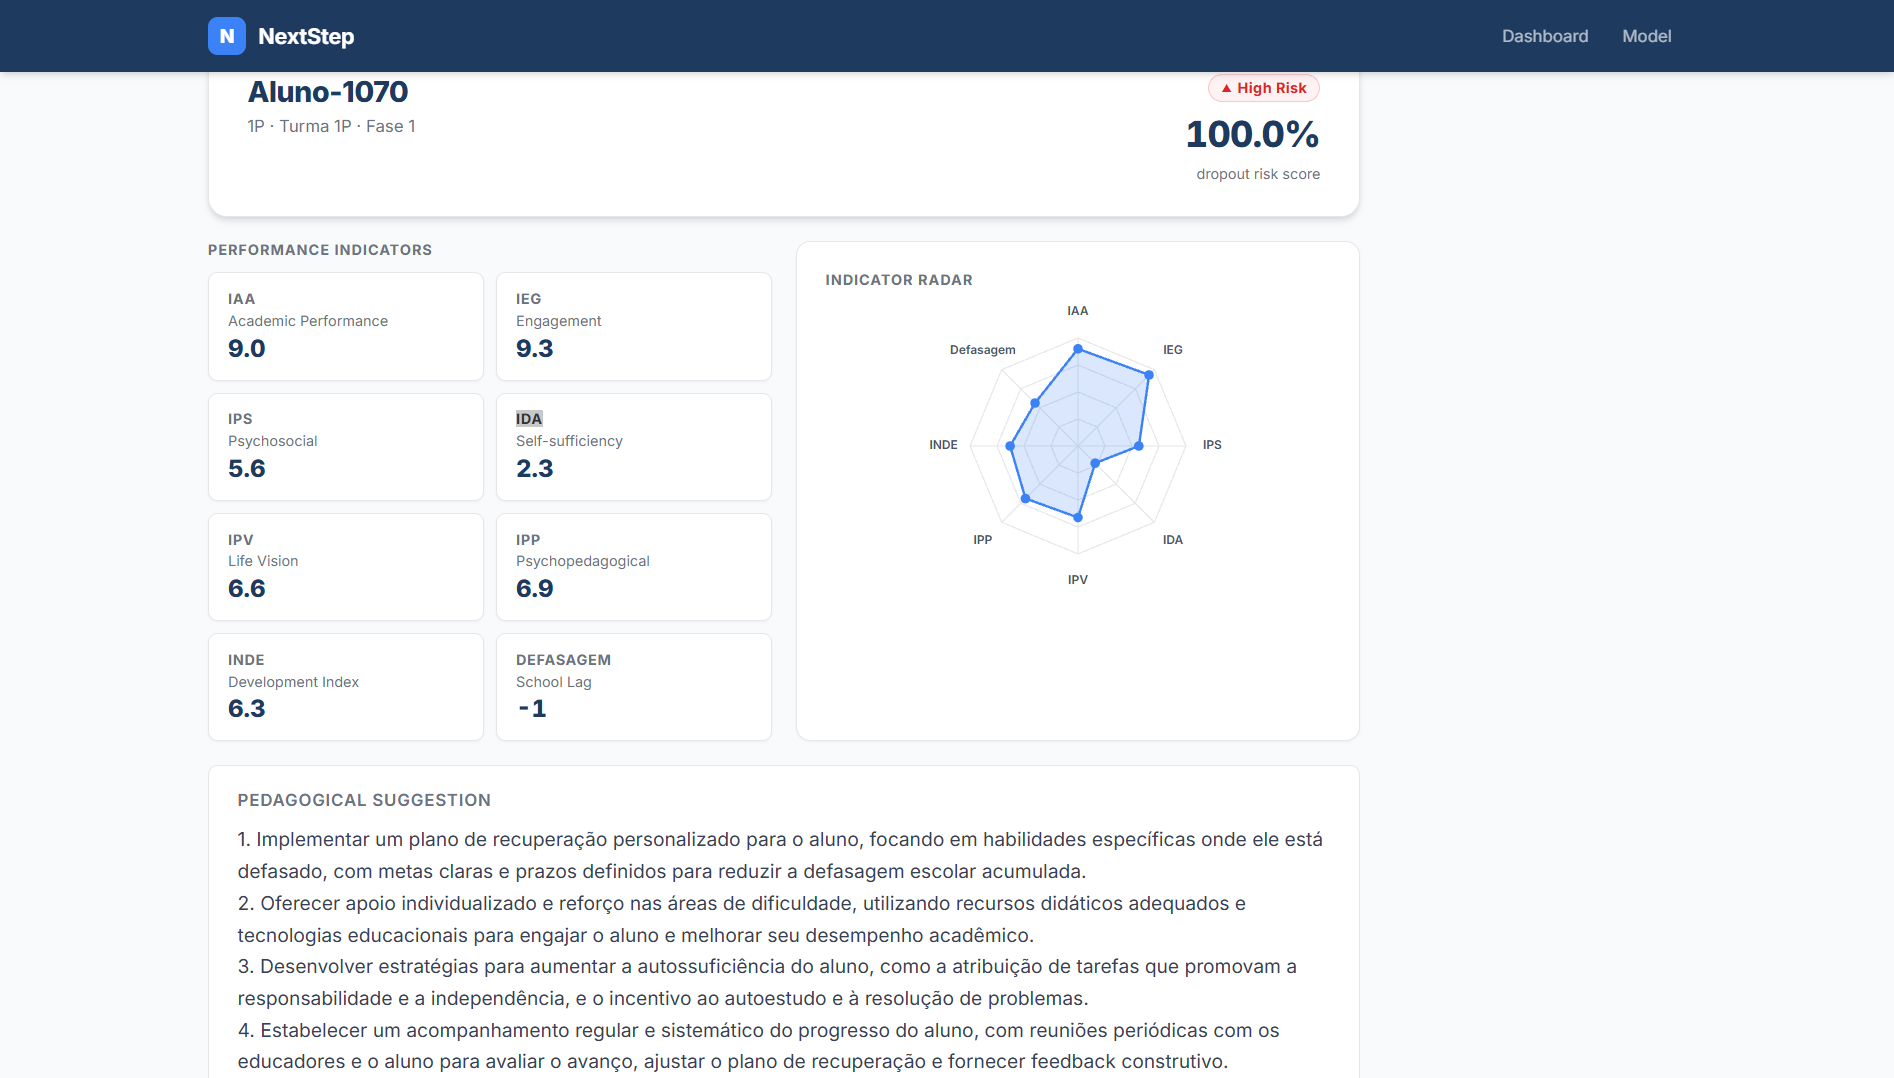
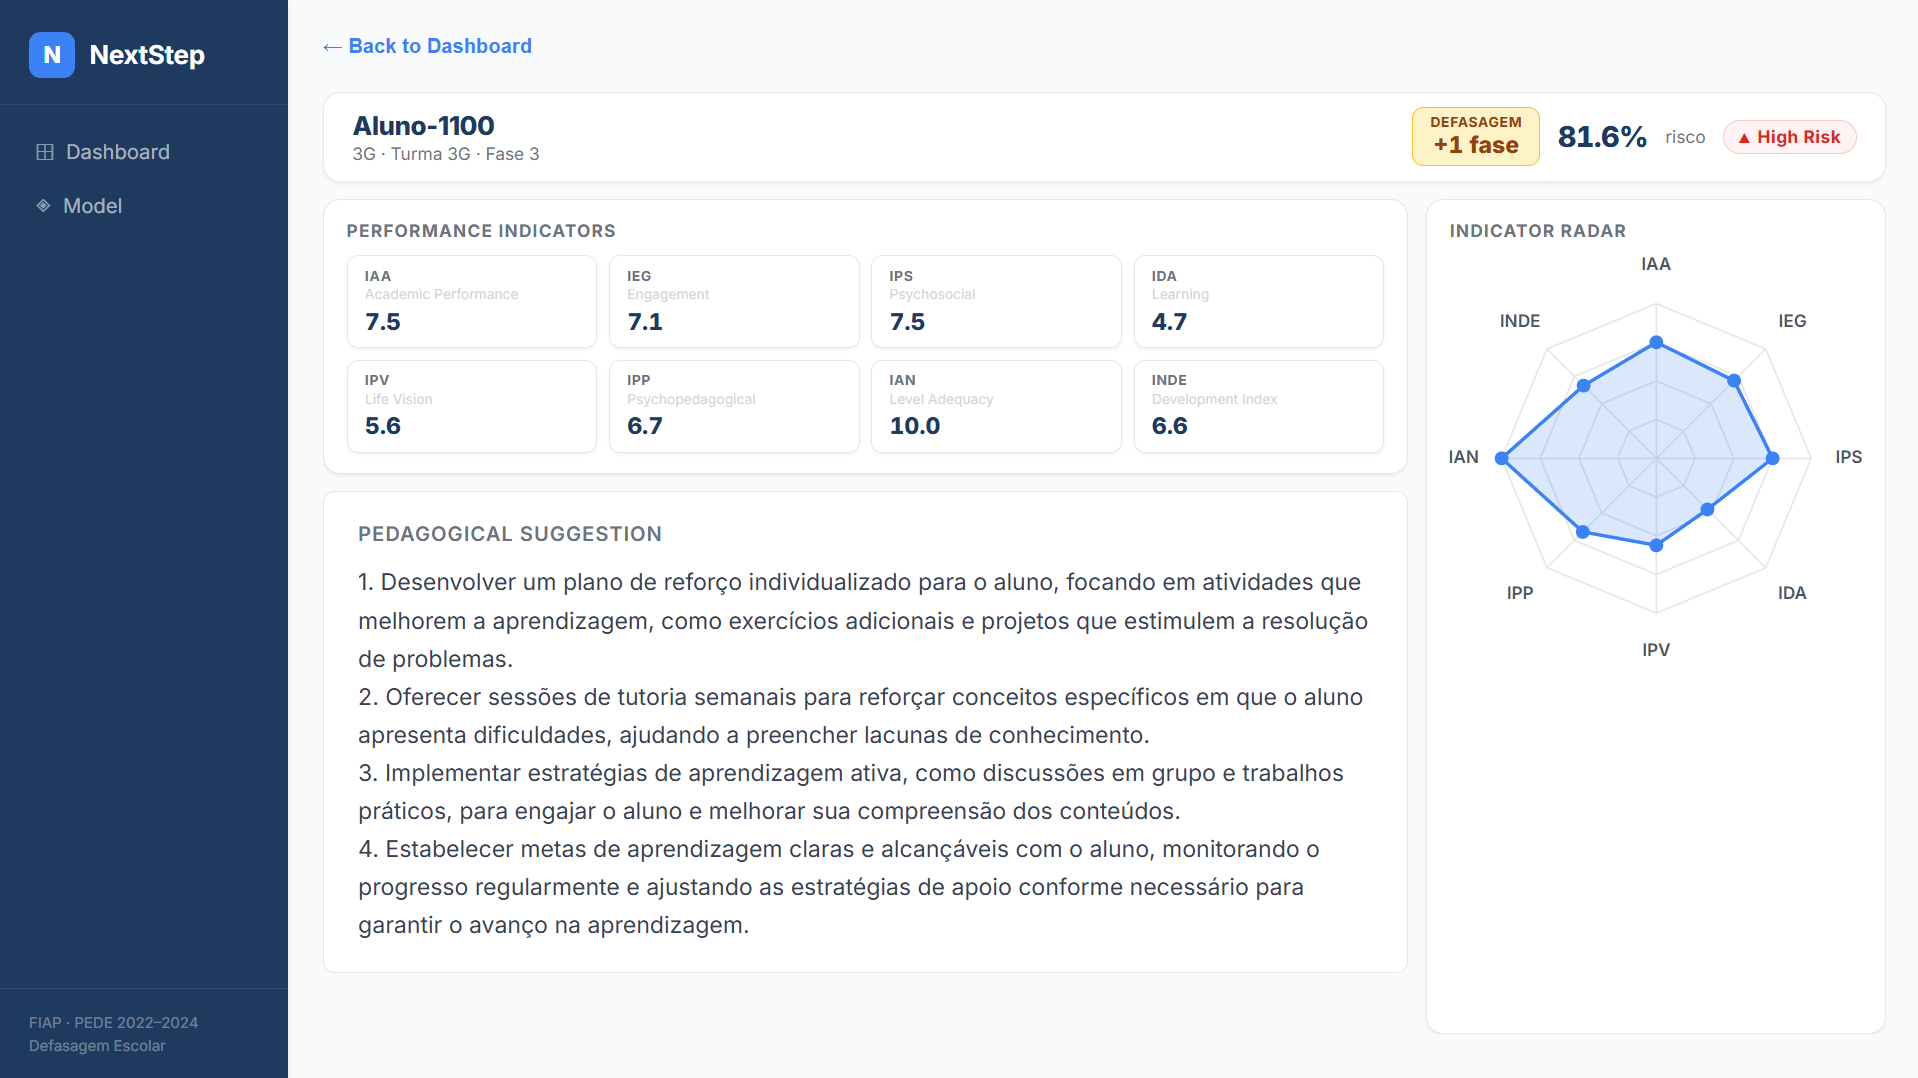
fix(frontend): retry on 503 cold start; cut GCP idle cost
- studentCache: exponential backoff retry (up to 5x) on 503 so the
  student list loads on first visit even when the API is cold-starting
- deploy: set MLflow min-instances 0 → no longer pays for idle compute 24/7
- deploy: add Artifact Registry cleanup step (keep 5 most recent per repo)
  to stop SHA-tagged images accumulating indefinitely

diff --git a/frontend/src/services/studentCache.ts b/frontend/src/services/studentCache.ts
@@ -24,6 +24,7 @@ let _inflight: Promise<CacheEntry> | null = null
 /**
  * Returns cached students instantly on subsequent calls.
  * Only one network request is ever in-flight at a time (deduped).
+ * Retries with exponential backoff if API is not ready (503).
  */
 export async function getOrFetchStudents(): Promise<CacheEntry> {
   if (_cache) return _cache
@@ -31,7 +32,7 @@ export async function getOrFetchStudents(): Promise<CacheEntry> {
   // Deduplicate concurrent calls (e.g. StrictMode double-mount)
   if (_inflight) return _inflight
 
-  _inflight = getStudents().then((data) => {
+  _inflight = fetchWithRetry().then((data) => {
     _cache = { students: data.students, total: data.total, fetchedAt: Date.now() }
     _inflight = null
     return _cache
@@ -41,6 +42,30 @@ export async function getOrFetchStudents(): Promise<CacheEntry> {
   })
 
   return _inflight
+}
+
+/**
+ * Fetch students with exponential backoff retry for 503 (service not ready).
+ * Max 5 attempts over ~15 seconds to handle API cold start.
+ */
+async function fetchWithRetry(attempt = 1): Promise<{ students: StudentSummary[]; total: number }> {
+  const maxAttempts = 5
+  const baseDelay = 1000 // ms
+
+  try {
+    return await getStudents()
+  } catch (err: unknown) {
+    const status = (err as { response?: { status?: number } })?.response?.status
+
+    // Only retry on 503 (service not ready) - fail fast on other errors
+    if (status === 503 && attempt < maxAttempts) {
+      const delay = Math.min(baseDelay * Math.pow(2, attempt - 1), 8000)
+      await new Promise(resolve => setTimeout(resolve, delay))
+      return fetchWithRetry(attempt + 1)
+    }
+
+    throw err
+  }
 }
 
 /** Call this to force a fresh fetch on the next getOrFetchStudents() call. */

diff --git a/README.md b/README.md
@@ -2,9 +2,9 @@
 
 > Plataforma de inteligência preditiva para coordenadores pedagógicos identificarem e apoiarem estudantes em risco de defasagem acadêmica.
 
-**Stack**: LSTM (PyTorch) · Flask 3 · React 18 · MLflow 2 · Groq LLM · Docker Compose  
-**Dataset**: PEDE 2022-2024 (FIAP Datathon) · 1 156 alunos ativos · previsão para ciclo 2025  
-**Último modelo**: v37 @prod · AUC=0.827 · F1=0.762 · threshold=0.284 (PR curve) · Optuna 20 trials
+**Stack**: LSTM (PyTorch) · LightGBM · Flask 3 · React 18 · MLflow 2 · Groq LLM · Docker · Kubernetes (GKE)
+**Dataset**: PEDE 2022-2024 (FIAP Datathon) · 1 156 alunos ativos · previsão para ciclo 2024
+**Último modelo**: v261 @prod · AUC=0.832 · F1=0.589 · threshold=0.19 (PR curve) · Optuna HPO
 
 ![Perfil de aluno com score de risco, indicadores PEDE e recomendação pedagógica gerada por IA](docs/ss.png)
 
@@ -17,9 +17,8 @@
 A **Associação Passos Mágicos** tem uma trajetória de 32 anos de atuação e trabalha na transformação da vida de crianças e jovens de baixa renda, levando-os a melhores oportunidades de vida. A associação busca instrumentalizar a educação como ferramenta para a mudança das condições de vida de crianças e jovens em vulnerabilidade social.
 
 O **NextStep** foi desenvolvido com base no dataset de pesquisa extensiva do desenvolvimento educacional da associação nos anos de 2022, 2023 e 2024 (PEDE), com o objetivo de ajudar coordenadores pedagógicos a identificar precocemente alunos em risco e agir de forma mais eficaz.
-| Docker + Docker Compose | 24+ |
 
-### 1. Configurar variáveis de ambiente
+**1. Configurar variáveis de ambiente**
 
 ```bash
 cp .env.example .env
@@ -94,11 +93,11 @@ Ou manualmente: http://localhost:5000 → Models → `nextstep-lstm` → versão
 docker compose up --build
 ```
 
-| Serviço | URL |
-|---|---|
+| Serviço         | URL                   |
+| ---------------- | --------------------- |
 | Frontend (React) | http://localhost:3000 |
-| API (Flask) | http://localhost:8080 |
-| MLflow UI | http://localhost:5000 |
+| API (Flask)      | http://localhost:8080 |
+| MLflow UI        | http://localhost:5000 |
 
 > **Novo modelo em produção**: após treinar e promover o alias, basta `docker compose restart api`.
 
@@ -111,38 +110,58 @@ docker compose up --build
 ```
 nextstep/
 ├── backend/
-│   ├── app/                     # Flask application (SOLID)
-│   │   ├── domain/              # Entidades + ports (interfaces)
-│   │   ├── repositories/        # MLflow model + student data
-│   │   ├── services/            # Prediction, cache, LLM
-│   │   ├── routes.py            # Endpoints REST
-│   │   └── __init__.py          # Flask factory (create_app)
-│   ├── ml/                      # ML pipeline
-│   │   ├── models/              # LSTMClassifier (PyTorch)
-│   │   ├── training/            # TrainingLoop, Evaluator, Registry, HPO
-│   │   ├── data_loader.py       # ETL: PEDE XLSX → .npy + scaler
-│   │   ├── train.py             # Entrypoint: treino + quality gate + registro
-│   │   └── tune.py              # Entrypoint: HPO Optuna → best params → train
-│   ├── scripts/             # Exploratório / legado (Sprint 1)
-│   ├── tests/
+│   ├── app/                       # Flask application (SOLID)
+│   │   ├── domain/                # Entidades + ports (interfaces)
+│   │   ├── repositories/          # MLflow model + student data
+│   │   ├── services/              # Prediction, cache, LLM
+│   │   ├── routes.py              # Endpoints REST
+│   │   ├── swagger_config.py      # Flasgger/Swagger setup
+│   │   ├── limiter.py             # Rate limiting (flask-limiter)
+│   │   └── __init__.py        
+│   ├── ml/                        # ML pipeline
+│   │   ├── models/                # LSTMClassifier (PyTorch)
+│   │   ├── training/              # trainer.py, evaluator.py, registry.py, hpo.py
+│   │   ├── data_loader.py         # ETL: PEDE XLSX → .npy + scaler
+│   │   ├── train.py               # Entrypoint LSTM: treino + quality gate + registro
+│   │   ├── train_lgbm.py          # Entrypoint LightGBM: treino + quality gate + registro
+│   │   ├── tune.py                # HPO Optuna → LSTM
+│   │   └── tune_lgbm.py           # HPO Optuna → LightGBM
+│   ├── scripts/                   # Exploratório / análises (não produção)
+│   ├── tests/                     # pytest (test_api, test_data_loader, test_lgbm_train, ...)
 │   ├── data/
-│   │   ├── raw/                 # XLSX original (git-ignored)
-│   │   └── processed/           # .npy, scaler.pkl, students_meta.pkl (git-ignored)
+│   │   ├── raw/                   # XLSX original (git-ignored)
+│   │   └── processed/             # .npy, scaler.pkl, students_meta.pkl (git-ignored)
 │   ├── Dockerfile
-│   ├── .dockerignore
-│   ├── requirements.txt
-│   └── pyproject.toml
+│   ├── requirements.txt           # Dev (inclui torch CUDA, pytest, ruff)
+│   ├── requirements-prod.txt      # Runtime only (sem torch CUDA)
+│   └── pyproject.toml             # ruff + pytest config
 ├── frontend/
 │   ├── src/
 │   │   ├── components/
 │   │   ├── pages/
-│   │   ├── services/api.ts
-│   │   ├── types/student.ts
+│   │   ├── services/              # api.ts, studentCache.ts
+│   │   ├── styles/
+│   │   ├── types/
 │   │   └── main.tsx
 │   ├── Dockerfile
 │   └── package.json
-├── docker-compose.yml           # Dev (hot-reload via volume mounts)
-├── docker-compose-prod.yml      # Prod (código baked na imagem)
+├── mlflow/                        # Dockerfile do MLflow server customizado
+├── k8s/                           # Manifests Kubernetes (GKE)
+│   ├── backend-deployment.yaml
+│   ├── frontend-deployment.yaml
+│   ├── mlflow-deployment.yaml
+│   ├── ingress.yaml
+│   ├── hpa.yaml
+│   └── ...
+├── .github/
+│   └── workflows/
+│       ├── ci.yaml                # lint + testes (backend + frontend)
+│       ├── deploy.yaml            # build Docker + deploy GKE (pós CI)
+│       └── train.yaml             # treino em cluster GKE efêmero
+├── docs/        
+├── docker-compose.yml             # Dev (hot-reload via volume mounts)
+├── docker-compose-prod.yml        # Prod (código baked na imagem)
+├── app.py                         # Runner unificado docker compose
 └── .env.example
 ```
 
@@ -151,12 +170,15 @@ nextstep/
 ## API
 
 ### `GET /health`
+
 ```json
 { "status": "ok", "model_loaded": true, "student_count": 1156 }
 ```
 
 ### `GET /api/students`
+
 Lista estudantes ordenados por risco (desc).
+
 ```json
 {
   "students": [
@@ -168,7 +190,9 @@ Lista estudantes ordenados por risco (desc).
 ```
 
 ### `GET /api/students/:id`
+
 Perfil completo com indicadores. IPP é exibido mas **não** entra no modelo.
+
 ```json
 {
   "student_id": 215, "display_name": "Aluno-750", "phase": "1B",
@@ -180,7 +204,9 @@ Perfil completo com indicadores. IPP é exibido mas **não** entra no modelo.
 ```
 
 ### `GET /api/students/:id/advice`
+
 Sugestão pedagógica gerada pelo Groq (sempre HTTP 200).
+
 ```json
 {
   "student_id": 215, "advice": "...", "is_fallback": false,
@@ -189,8 +215,10 @@ Sugestão pedagógica gerada pelo Groq (sempre HTTP 200).
 ```
 
 ### `POST /api/predict`
+
 Predição on-demand para valores brutos de indicadores (não precisa ser um aluno do dataset).
 Útil para simulações e testes de what-if. Todos os campos são opcionais (padrão: 0).
+
 ```json
 // Request body
 {
@@ -202,6 +230,7 @@ Predição on-demand para valores brutos de indicadores (não precisa ser um alu
 // Response
 { "risk_score": 0.3124, "risk_tier": "medium", "input": { ... } }
 ```
+
 Limitado a 60 requisições/hora por IP. IPP não entra no modelo (display-only).
 
 ---
@@ -219,6 +248,7 @@ python app.py --no-cache
 ```
 
 Flags úteis:
+
 - `--dry-run`: imprime os comandos sem executar
 - `--detach`: usa `docker compose up -d --build`
 
@@ -226,20 +256,20 @@ Flags úteis:
 
 ## Pipeline de ML
 
-| Etapa | Detalhe |
-|-------|---------|
-| **Features** | IAA, IEG, IPS, IDA, IPV, INDE, defasagem, fase\_num, gender, age (INPUT\_SIZE=10) |
-| **IPP** | Display-only — ausente em 2022, imputado para exibição, não entra no modelo |
-| **IAN** | Removido — data leakage (correlação 0.84–0.87 com o target) |
-| **Split** | Temporal: 2022→2023 treino / 2023→2024 teste / 2024 inferência |
-| **Missing (treino)** | DROP — linhas com null em qualquer feature são descartadas |
-| **Missing (inferência)** | IMPUTE com medianas do treino — NaN e IEG/IDA=0 são tratados como ausentes (≈9% dos alunos 2024) |
-| **Zeros IEG/IDA** | IEG=0 (9,4 %) e IDA=0 (1,4 %) são prováveis erros de registro — imputados pela mediana da fase no treino para o modelo; valor original 0 é preservado para exibição no frontend com aviso ⚠ |
-| **Scaler** | `RobustScaler` (mediana+IQR, clip±5) — robusto a outliers |
-| **Threshold** | Otimizado via curva PR no validation set (20% do treino) — nunca no test |
-| **Modelo** | LSTM 2 camadas hidden\_size=128, BCEWithLogitsLoss com pos\_weight · otimizado via Optuna (20 trials) |
-| **Tracking** | MLflow: params, métricas, scaler como artefato, alias @staging/@prod |
-| **HPO** | Optuna: N trials por experimento, cada trial = child MLflow run, melhor retrained e promovido |
+| Etapa                           | Detalhe                                                                                                                                                                                              |
+| ------------------------------- | ---------------------------------------------------------------------------------------------------------------------------------------------------------------------------------------------------- |
+| **Features**              | IAA, IEG, IPS, IDA, IPV, IAN, INDE, defasagem, fase\_num, gender, age, tenure, n\_av, mat, por, missing\_grades (INPUT\_SIZE=16)                                                                     |
+| **IPP**                   | Display-only — ausente em 2022, imputado para exibição, não entra no modelo                                                                                                                      |
+| **mat / por**             | Notas de matemática e português; flag `missing_grades` + imputação por mediana de fase fitada no treino (sem leakage)                                                                          |
+| **Split**                 | Temporal: 2022→2023 treino / 2023→2024 teste / 2024 inferência                                                                                                                                    |
+| **Missing (treino)**      | DROP — linhas com null em qualquer feature são descartadas                                                                                                                                         |
+| **Missing (inferência)** | IMPUTE com medianas do treino — NaN e IEG/IDA=0 são tratados como ausentes (≈9% dos alunos 2024)                                                                                                  |
+| **Zeros IEG/IDA**         | IEG=0 (9,4 %) e IDA=0 (1,4 %) são prováveis erros de registro — imputados pela mediana da fase no treino para o modelo; valor original 0 é preservado para exibição no frontend com aviso ⚠ |
+| **Scaler**                | `RobustScaler` (mediana+IQR, clip±5) — robusto a outliers                                                                                                                                        |
+| **Threshold**             | Otimizado via curva PR no validation set (20% do treino) — nunca no test                                                                                                                            |
+| **Modelo**                | LSTM 1 camada hidden\_size=128, BCEWithLogitsLoss com pos\_weight · ou LightGBM com scale\_pos\_weight dinâmico · ambos otimizados via Optuna                                                     |
+| **Tracking**              | MLflow: params, métricas, scaler como artefato, alias @staging/@prod                                                                                                                                |
+| **HPO**                   | Optuna: N trials por experimento, cada trial = child MLflow run, melhor retrained e promovido                                                                                                        |
 
 ### Fluxo de dados
 
@@ -299,6 +329,34 @@ docker compose run --rm api python ml/tune.py --trials 30 --no-train
 
 ---
 
+## CI/CD
+
+```
+Push → branch main
+  │
+  ▼
+[ CI ] GitHub Actions
+  ├── backend-ci:  ruff lint + pytest
+  └── frontend-ci: eslint + vitest
+  │
+  ▼  (somente se CI passou)
+[ Deploy ] GitHub Actions
+  ├── build-mlflow  ┐
+  ├── build-backend ├── docker build + push → Artifact Registry  (paralelo)
+  └── build-frontend┘
+  │
+  └── deploy:
+        gcloud run deploy nextstep-mlflow
+        kubectl set image nextstep-api
+        kubectl set image nextstep-web
+
+[ Train ] workflow_dispatch (manual)
+  ├── Cria cluster GKE efêmero (e2-standard-2)
+  ├── Kubernetes Job: HPO (Optuna) + treino + registro MLflow
+  ├── Destroi cluster
+  └── (opcional) promove @staging → @prod
+```
+
 ## Testes
 
 ```bash
@@ -329,21 +387,21 @@ cd frontend && npm run lint
 
 ## Variáveis de Ambiente
 
-| Variável | Descrição | Obrigatório |
-|---|---|---|
-| `GROQ_API_KEY` | Chave da API Groq | Sim (para advice) |
-| `MLFLOW_TRACKING_URI` | URL do servidor MLflow | Sim |
-| `VITE_API_BASE_URL` | URL base da API (frontend) | Sim |
+| Variável               | Descrição                | Obrigatório      |
+| ----------------------- | -------------------------- | ----------------- |
+| `GROQ_API_KEY`        | Chave da API Groq          | Sim (para advice) |
+| `MLFLOW_TRACKING_URI` | URL do servidor MLflow     | Sim               |
+| `VITE_API_BASE_URL`   | URL base da API (frontend) | Sim               |
 
 ---
 
 ## Thresholds de Risco
 
-| Tier | Faixa | Badge |
-|---|---|---|
-| `high` | score ≥ 0.7 | 🔴 Red |
+| Tier       | Faixa              | Badge     |
+| ---------- | ------------------ | --------- |
+| `high`   | score ≥ 0.7       | 🔴 Red    |
 | `medium` | 0.3 ≤ score < 0.7 | 🟡 Yellow |
-| `low` | score < 0.3 | 🟢 Green |
+| `low`    | score < 0.3        | 🟢 Green  |
 
 ---
 
